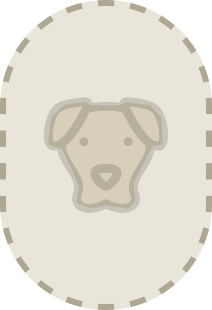
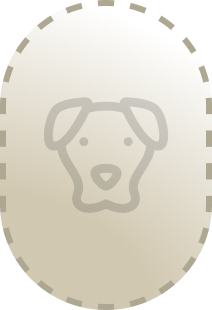
meta-color

diff --git a/piur/prototype/views/cuenta/pawcard-create.html b/piur/prototype/views/cuenta/pawcard-create.html
@@ -5,12 +5,14 @@
         <meta http-equiv="X-UA-Compatible" content="IE=edge">
         <meta name="viewport" content="width=device-width, initial-scale=1.0">
         <title>Nueva PawCard: Piur</title>
-        <meta name="application-name" content="Caracol">
+        <meta name="application-name" content="Piur">
 
         <link rel="stylesheet" type="text/css" href="../../static/css/styles.css">
         <link rel="stylesheet" type="text/css" href="../../static/css/buttons.css">
         <link rel="stylesheet" type="text/css" href="../../static/css/inputs.css">
         <link rel="stylesheet" type="text/css" href="../../static/css/helpers.css">
+
+        <meta name="theme-color" content="D7CFB9">
     </head>
 
     <body class="background-plain">
@@ -114,8 +116,13 @@
                     <option value="sanluis">Luján de cuyo</option>
                 </select>
 
-                <span class="btn btn-primary btn-next mr-m">Siguiente</span>
+                <button class="btn btn-primary btn-next mr-m" type="button">Siguiente</button>
                 <span class="btn btn-secondary pl-s pr-s">Omitir</span>
+            </div>
+
+            <!-- Resumen -->
+            <div id="confirmation" class="hidden">
+                <h1 class="inner m-l">¡Coca ya tiene su PawCard lista!</h1>
             </div>
         </div>
 
@@ -157,6 +164,11 @@
                 $('header .step-location').click(function(){
                     $('#step-photo, header .step-photo').removeClass('hidden');
                     $('#step-location, header .step-location').addClass('hidden');
+                });
+
+                $('#step-location .btn-next').click(function(){
+                    $('#step-location, header .step-location').addClass('hidden');
+                    $('#confirmation').removeClass('hidden');
                 });
 
                 // Select

diff --git a/piur/prototype/views/acceso/recuperar-contrasena-exito.html b/piur/prototype/views/acceso/recuperar-contrasena-exito.html
@@ -5,12 +5,14 @@
         <meta http-equiv="X-UA-Compatible" content="IE=edge">
         <meta name="viewport" content="width=device-width, initial-scale=1.0">
         <title>Recuperar contraseña: Piur</title>
-        <meta name="application-name" content="Caracol">
+        <meta name="application-name" content="Piur">
 
         <link rel="stylesheet" type="text/css" href="../../static/css/styles.css">
         <link rel="stylesheet" type="text/css" href="../../static/css/buttons.css">
         <link rel="stylesheet" type="text/css" href="../../static/css/inputs.css">
         <link rel="stylesheet" type="text/css" href="../../static/css/helpers.css">
+
+        <meta name="theme-color" content="D7CFB9">
     </head>
 
     <body>

diff --git a/piur/prototype/views/acceso/recuperar-contrasena.html b/piur/prototype/views/acceso/recuperar-contrasena.html
@@ -5,12 +5,14 @@
         <meta http-equiv="X-UA-Compatible" content="IE=edge">
         <meta name="viewport" content="width=device-width, initial-scale=1.0">
         <title>Recuperar contraseña: Piur</title>
-        <meta name="application-name" content="Caracol">
+        <meta name="application-name" content="Piur">
 
         <link rel="stylesheet" type="text/css" href="../../static/css/styles.css">
         <link rel="stylesheet" type="text/css" href="../../static/css/buttons.css">
         <link rel="stylesheet" type="text/css" href="../../static/css/inputs.css">
         <link rel="stylesheet" type="text/css" href="../../static/css/helpers.css">
+
+        <meta name="theme-color" content="D7CFB9">
     </head>
 
     <body>

diff --git a/piur/prototype/views/acceso/crear-cuenta-exito.html b/piur/prototype/views/acceso/crear-cuenta-exito.html
@@ -5,12 +5,14 @@
         <meta http-equiv="X-UA-Compatible" content="IE=edge">
         <meta name="viewport" content="width=device-width, initial-scale=1.0">
         <title>Crear cuenta: Piur</title>
-        <meta name="application-name" content="Caracol">
+        <meta name="application-name" content="Piur">
 
         <link rel="stylesheet" type="text/css" href="../../static/css/styles.css">
         <link rel="stylesheet" type="text/css" href="../../static/css/buttons.css">
         <link rel="stylesheet" type="text/css" href="../../static/css/inputs.css">
         <link rel="stylesheet" type="text/css" href="../../static/css/helpers.css">
+
+        <meta name="theme-color" content="D7CFB9">
     </head>
 
     <body>

diff --git a/piur/prototype/views/acceso/crear-cuenta.html b/piur/prototype/views/acceso/crear-cuenta.html
@@ -5,12 +5,14 @@
         <meta http-equiv="X-UA-Compatible" content="IE=edge">
         <meta name="viewport" content="width=device-width, initial-scale=1.0">
         <title>Crear cuenta: Piur</title>
-        <meta name="application-name" content="Caracol">
+        <meta name="application-name" content="Piur">
 
         <link rel="stylesheet" type="text/css" href="../../static/css/styles.css">
         <link rel="stylesheet" type="text/css" href="../../static/css/buttons.css">
         <link rel="stylesheet" type="text/css" href="../../static/css/inputs.css">
         <link rel="stylesheet" type="text/css" href="../../static/css/helpers.css">
+
+        <meta name="theme-color" content="D7CFB9">
     </head>
 
     <body>

diff --git a/piur/prototype/views/cuenta/dashboard.html b/piur/prototype/views/cuenta/dashboard.html
@@ -5,12 +5,14 @@
         <meta http-equiv="X-UA-Compatible" content="IE=edge">
         <meta name="viewport" content="width=device-width, initial-scale=1.0">
         <title>Dashboard: Piur</title>
-        <meta name="application-name" content="Caracol">
+        <meta name="application-name" content="Piur">
 
         <link rel="stylesheet" type="text/css" href="../../static/css/styles.css">
         <link rel="stylesheet" type="text/css" href="../../static/css/buttons.css">
         <link rel="stylesheet" type="text/css" href="../../static/css/inputs.css">
         <link rel="stylesheet" type="text/css" href="../../static/css/helpers.css">
+
+        <meta name="theme-color" content="D7CFB9">
     </head>
 
     <body>

diff --git a/piur/prototype/views/acceso/ingresar.html b/piur/prototype/views/acceso/ingresar.html
@@ -5,12 +5,14 @@
         <meta http-equiv="X-UA-Compatible" content="IE=edge">
         <meta name="viewport" content="width=device-width, initial-scale=1.0">
         <title>Ingresar: Piur</title>
-        <meta name="application-name" content="Caracol">
+        <meta name="application-name" content="Piur">
 
         <link rel="stylesheet" type="text/css" href="../../static/css/styles.css">
         <link rel="stylesheet" type="text/css" href="../../static/css/buttons.css">
         <link rel="stylesheet" type="text/css" href="../../static/css/inputs.css">
         <link rel="stylesheet" type="text/css" href="../../static/css/helpers.css">
+
+        <meta name="theme-color" content="D7CFB9">
     </head>
 
     <body>

diff --git a/piur/prototype/views/legal/terminos.html b/piur/prototype/views/legal/terminos.html
@@ -5,11 +5,13 @@
         <meta http-equiv="X-UA-Compatible" content="IE=edge">
         <meta name="viewport" content="width=device-width, initial-scale=1.0">
         <title>Términos y condiciones: Piur</title>
-        <meta name="application-name" content="Caracol">
+        <meta name="application-name" content="Piur">
 
         <link rel="stylesheet" type="text/css" href="../../static/css/styles.css">
         <link rel="stylesheet" type="text/css" href="../../static/css/buttons.css">
         <link rel="stylesheet" type="text/css" href="../../static/css/helpers.css">
+
+        <meta name="theme-color" content="D7CFB9">
     </head>
 
     <body>

diff --git a/piur/prototype/index.html b/piur/prototype/index.html
@@ -5,7 +5,7 @@
         <meta http-equiv="X-UA-Compatible" content="IE=edge">
         <meta name="viewport" content="width=device-width, initial-scale=1.0">
         <title>Home: Piur</title>
-        <meta name="application-name" content="Caracol">
+        <meta name="application-name" content="Piur">
 
         <link rel="stylesheet" type="text/css" href="static/css/styles.css">
 

diff --git a/piur/prototype/static/css/buttons.css b/piur/prototype/static/css/buttons.css
@@ -24,6 +24,12 @@
     color: var(--black);
 }
 
+.btn:disabled,
+.btn[disabled]{
+  color: #837D73;
+  background-color: rgba(31, 31, 31, 0.12);
+}
+
 .btn-link {
     text-transform: none;
     text-decoration: underline;
